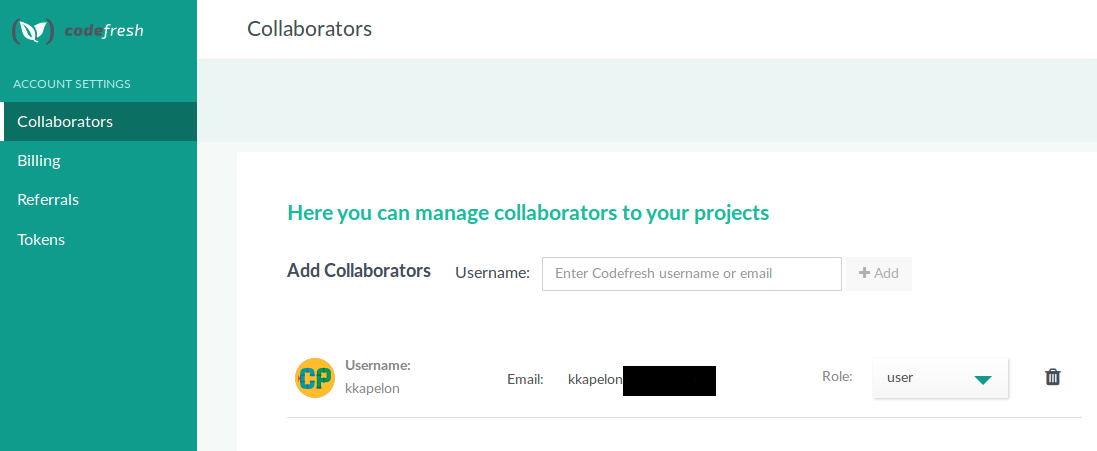
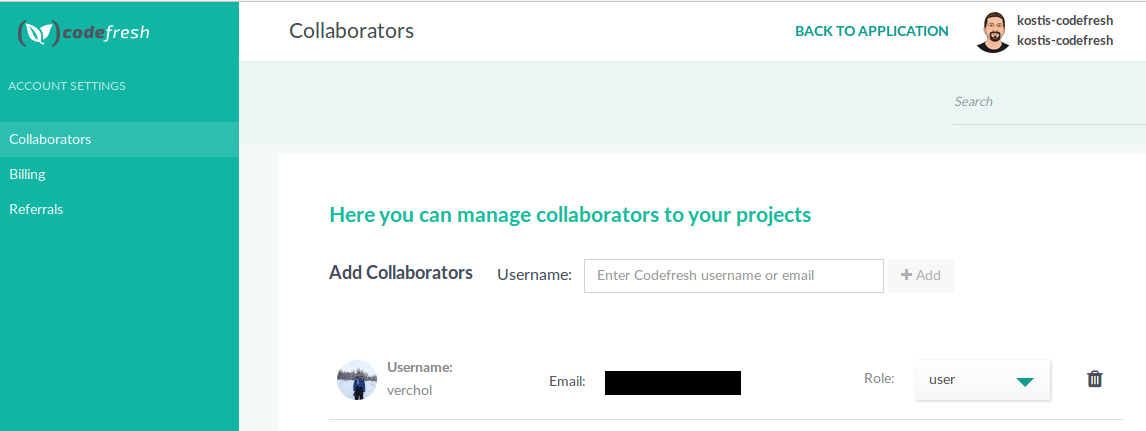
Updated new GUI for collaborators

diff --git a/_docs/accounts/invite-your-team-member.md b/_docs/accounts/invite-your-team-member.md
@@ -8,11 +8,13 @@ toc: true
 ---
 Follow these steps to add collaborators to your account.
 
-First click at your profile at the bottom left of the UI and select *Account settings*. The select the *Collaborators* 
+First click on *User Management* under the *Settings* section in the left sidebar. 
+
+
+{% include image.html lightbox="true" file="/images/account/account-settings.png" url="/images/account/account-settings.png" alt="Codefresh account settings" max-width="25%" %}
+
+Then select the *Collaborators* 
 tab.
-
-
-{% include image.html lightbox="true" file="/images/account/account-settings.png" url="/images/account/account-settings.png" alt="Codefresh account settings" max-width="30%" %}
 
 1. In the *Username* text box, type the Codefresh user name or email address of the user you want to add.
 1. Click the *Add* button.
@@ -20,11 +22,13 @@ tab.
 {% include image.html lightbox="true" file="/images/account/collaborators.png" url="/images/account/collaborators.png" alt="Collaborators" max-width="70%" %}
 
 
-An message will be sent to the person that holds the email account. Once approved you will see the collaborator
+A message will be sent to the person that holds the email account. Once approved you will see the collaborator
 in the list below.
 
 You can also change the role of each team member or remove them from the team by using
 the action buttons next to their names.
 
->Your team member should use the same provider (github/bitbucket) as you. 
+>Your team member should use the same provider (Github/Bitbucket/Gitlab) as you. 
+
+Once you are finished click on *Back to application* on the top right corner.
 
